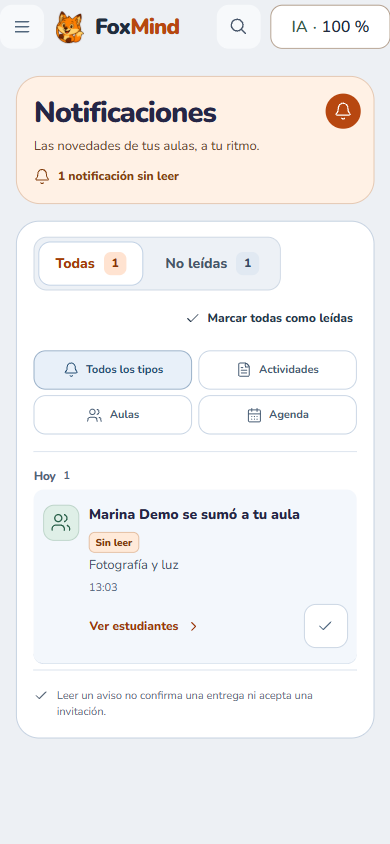
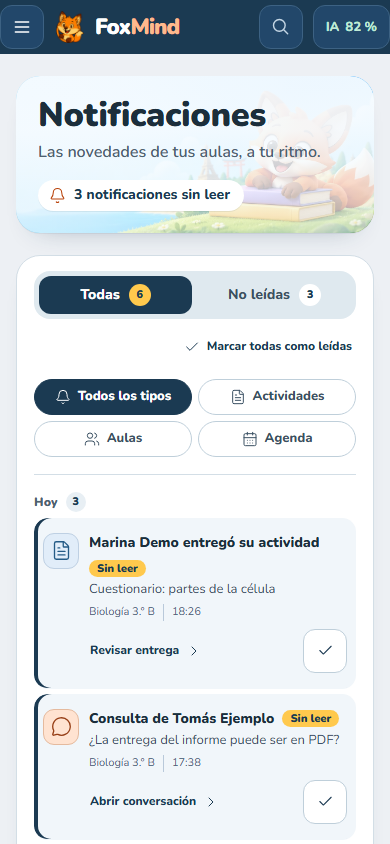
docs: document Expedición notifications and profile with captures and board
Eight notification and profile captures renewed and a new settings capture
(49 catalog entries with matching sha256), the design guide, gallery and
flows matrix updated, plus the work log and the TTP board with its three
tasks closed.

diff --git a/odd/tasks/expedition-notifications-profile.md b/odd/tasks/expedition-notifications-profile.md
@@ -1,0 +1,60 @@
+# Feature: Notificaciones y Perfil en dirección Expedición
+
+- **Spec:** #especificacion
+- **Design:** #diseno
+- **Approval:** approved
+- **Evidence mode:** candidate-v1
+- **Trace mode:** requirements-v1
+
+El 2026-11-25 el usuario pidió seguir con un PR más y eligió «Notificaciones y Perfil» como próxima migración Expedición, apilada sobre el PR de Agenda. La autorización cubre la migración visual sin cambios de comportamiento. Commit, push y PR los autorizó después (ver Seguimiento Git). No hay autorización de merge ni de despliegue.
+
+## Especificacion
+
+- **REQ-001:** Notificaciones adopta Expedición: banner con ilustración, estado de lectura como pestañas segmentadas en lago, filtros de tipo como chips con el elegido en lago, avisos sin leer marcados en lago con su etiqueta en sol y bandeja vacía con el zorro.
+- **REQ-002:** Mi perfil y Configuración adoptan Expedición: encabezado, tarjeta de vista previa en cielo y lago, campos y acciones del lenguaje del piloto, y tarjeta de cuenta con la escena de seguridad.
+- **REQ-003:** No cambia el comportamiento: datos, filtros, marcado de lectura, foco, validación del perfil, avatar y cierre de sesión siguen igual.
+
+## Diseno
+
+Mismos tokens y tipografía que el piloto (`--xp-*`, Nunito). Las hojas se anclan con `#foxmind-product#foxmind-product.fm3d-theme`, más la clase de cada pantalla cuando haga falta superar las hojas Brújula. Las ilustraciones ya están en el repositorio: `foxmind-3d/hero/welcome-sky`, `foxmind-3d/states/empty` y `foxmind-3d/scenes/security`.
+
+## Seguimiento Git
+
+Rama `claude/notifications-profile-expedition`, creada desde `d732d935` (punta de `claude/agenda-expedition`, PR 20). El 2026-11-25 el usuario autorizó commitear y abrir el PR («Sí, abrí el PR»), apilado sobre el PR 20. No hay autorización de merge ni de despliegue.
+
+## Tasks
+
+### TASK-001 — Notificaciones con el lenguaje Expedición
+- **State:** DONE
+- **Depends on:** none
+- **Owner:** orchestrator
+- **Requirements:** REQ-001, REQ-003
+- **Verification:** tests/expedition-notifications.test.mjs; navegador con bandeja llena, filtrada y vacía, ambos roles a 1440 y 390 px
+- **Scope:** ["apps/web/src/features/notifications/inbox/styles/expedition-notifications.css", "tests/expedition-notifications.test.mjs"]
+- **Acceptance:** La bandeja muestra el banner, las pestañas segmentadas, los chips de tipo, los avisos sin leer en lago y el estado vacío con el zorro, sin desborde a 1440 y 390 px. Filtrar y marcar como leído funcionan igual que antes.
+- **Evidence:** {"command":"node --test tests/expedition-notifications.test.mjs (RED sin la importaci\u00f3n, GREEN con ella); nt-check.mjs en navegador con ambos roles a 1440 y 390","result":"2/2 (0/2 sin la hoja); banner con la escena del cielo, lectura y tipo elegidos en lago, avisos sin leer marcados, \u00abNo le\u00eddas\u00bb 3 y \u00abActividades\u00bb 2 (docente) o 3 (estudiante), marcar uno baja de 3 a 2, \u00abMarcar todas\u00bb deja \u00abTodo le\u00eddo por ac\u00e1\u00bb y la bandeja vac\u00eda muestra el zorro; anillo de foco visible, sin desborde ni errores de p\u00e1gina","candidate":"sha256:817bc31249901528911d17fb962d0ae1a94fa2f526abdc171175228a6fcea1f3"}
+- **Blocker:** none
+
+### TASK-002 — Mi perfil y Configuración con el lenguaje Expedición
+- **State:** DONE
+- **Depends on:** none
+- **Owner:** orchestrator
+- **Requirements:** REQ-002, REQ-003
+- **Verification:** tests/expedition-profile.test.mjs; navegador Mi perfil, selector de avatar y Configuración, ambos roles a 1440 y 390 px
+- **Scope:** ["apps/web/src/features/identity/styles/expedition-account.css", "tests/expedition-profile.test.mjs"]
+- **Acceptance:** Mi perfil, el selector de avatar y Configuración muestran el lenguaje Expedición sin desborde a 1440 y 390 px; guardar, descartar y cerrar sesión siguen disponibles.
+- **Evidence:** {"command":"node --test tests/expedition-profile.test.mjs (RED sin la importaci\u00f3n, GREEN con ella); pf-check.mjs y capturas de Mi perfil, selector de avatar y Configuraci\u00f3n con ambos roles a 1440 y 390","result":"2/2 (0/2 sin la hoja); banner con escena de perfil o de seguridad, vista previa en cielo, campos con borde 3,25:1, avatar elegido en lago; editar habilita Guardar y Descartar, Descartar restaura y devuelve el foco, el selector ofrece 5 opciones y elegir uno marca cambios; sin desborde ni errores de p\u00e1gina","candidate":"sha256:3edd41248dac0a6fa15958d4f94c9a06d6d2ed8db861ac2c229713fc98cc45f0"}
+- **Blocker:** none
+
+### TASK-003 — Documentación, capturas y registro de suites
+- **State:** DONE
+- **Depends on:** TASK-001, TASK-002
+- **Owner:** orchestrator
+- **Requirements:** REQ-001, REQ-002
+- **Verification:** node scripts/check-documentation.mjs; sha256 del catálogo; run-complete-suite --check
+- **Scope:** ["apps/web/src/application/shell/styles/product.css", "scripts/complete-suite-inventory.json", "scripts/complete-suite-routes.json", "scripts/ci-suites.mjs", "docs/design/README.md", "docs/design/current/README.md", "docs/design/current/catalog.json", "docs/verification/flows.md", "docs/work-log/2026-11-25-expedition-notifications-profile.md"]
+- **Acceptance:** La guía de diseño, la galería y la matriz de flujos describen Notificaciones y Perfil en Expedición; el catálogo coincide en sha256 y las pruebas nuevas están clasificadas en las suites.
+- **Evidence:** {"command":"node scripts/check-documentation.mjs; verificaci\u00f3n sha256 del cat\u00e1logo; run-complete-suite --check; run-complete-suite --group fast","result":"1088 enlaces sin problemas; 49 capturas coincidentes (8 renovadas y 1 nueva de Configuraci\u00f3n); 731 pruebas clasificadas; fast 3141/3141. Repetida tras registrar la autorizaci\u00f3n de commit y PR.","candidate":"sha256:c99474bb364fa4da458d4012de39cf4a0003b71e8840c4f45b12da1e2d422848"}
+- **Blocker:** none
+- **Reopen reason:** Registro de trabajo actualizado con la autorización de commit y PR
+

diff --git a/docs/work-log/2026-11-25-expedition-notifications-profile.md b/docs/work-log/2026-11-25-expedition-notifications-profile.md
@@ -1,0 +1,62 @@
+# Notificaciones y Perfil en dirección Expedición · 25 de noviembre de 2026
+
+## Pedido y alcance
+
+- **Pedido:** «Podemos seguir con una PR más?», y como próxima pantalla «Notificaciones y Perfil».
+- **Alcance:** migración visual con el lenguaje aprobado en el piloto, Mis aulas y Agenda, sin cambios de comportamiento. Foxy y Mi estudio quedan afuera porque otro worktree trabaja sobre ellos.
+- **Rama:** `claude/notifications-profile-expedition`, apilada sobre `claude/agenda-expedition` (PR 20).
+- **Autorización:** el usuario autorizó commit, push y PR («Sí, abrí el PR»). No cubre merge ni despliegue.
+- **Tablero:** [odd/tasks/expedition-notifications-profile.md](../../odd/tasks/expedition-notifications-profile.md).
+
+## Cambios
+
+- **Hojas nuevas:**
+  - `apps/web/src/features/notifications/inbox/styles/expedition-notifications.css`, anclada con `#foxmind-product#foxmind-product.fm3d-theme .parity-notifications`, porque las reglas de la bandeja llegan a (1,3,1).
+  - `apps/web/src/features/identity/styles/expedition-account.css`, anclada con `#foxmind-product#foxmind-product.fm3d-theme .entry-profile`, porque las hojas de cuenta llegan a (0,4,0).
+  - Las dos se importan en `product.css` después de la de Agenda.
+- **Notificaciones:**
+  - Banner con la escena del cielo (`hero/welcome-sky-1600`) en lugar de la carta dibujada, con el resumen de avisos sin leer en una píldora.
+  - «Todas» y «No leídas» como pestañas segmentadas, con la elegida en lago y su contador centrado en sol.
+  - Tipos como chips, con el elegido en lago.
+  - Avisos sin leer con franja lago y etiqueta «Sin leer» en sol.
+  - Bandeja vacía con el zorro y su caja (`states/empty-320`).
+- **Mi perfil y Configuración:**
+  - Banner cálido con la escena del perfil o la del escudo, según la página.
+  - Vista previa en cielo con el avatar enmarcado en lago.
+  - Campos con el borde de 3,25:1 del acceso; los de sólo lectura llevan borde punteado.
+  - Opción de avatar elegida en lago, y la escena del escudo en la tarjeta de Configuración de cuenta.
+  - Los títulos «Contraseña» y «Sesión actual», que salían con peso fino, quedan en Nunito 900.
+- **Pruebas:** `tests/expedition-notifications.test.mjs` y `tests/expedition-profile.test.mjs`, registradas en la ruta rápida.
+- **Documentación:** guía de diseño (resumen, Notificaciones y Perfil), galería, matriz de flujos y catálogo.
+
+## Verificación
+
+- **Pruebas de guarda:** las dos fallan (0/4) al quitar la importación de las hojas y pasan (4/4) con ella.
+- **Navegador:** `next dev` del worktree contra una API sintética local, con un fixture propio de la bandeja (avisos de actividades, aulas y agenda, leídos y sin leer) y un stream mínimo del saldo de IA. Ambos roles a 1440 y 390 px.
+  - **Notificaciones:**
+    - Filtrar por «No leídas» muestra 3 avisos; por «Actividades», 2 (docente) o 3 (estudiante).
+    - Marcar un aviso baja de 3 a 2 sin leer, y «Marcar todas» deja «Todo leído por acá».
+    - La bandeja sin avisos muestra «Las próximas novedades llegan acá» con el zorro.
+    - El foco con teclado se ve en las pestañas.
+  - **Mi perfil:**
+    - Editar el nombre habilita Guardar y Descartar y actualiza la vista previa.
+    - Descartar restaura el nombre y devuelve el foco al campo.
+    - El selector ofrece 5 opciones, y elegir una marca el perfil como modificado.
+  - Sin desborde ni errores de página.
+- **Capturas:** 8 renovadas (Notificaciones y Mi perfil, ambos roles y anchos) y 1 nueva (Configuración de la docente), con sha256 verificado. El catálogo tiene 49 entradas.
+- **Comandos:**
+  - `node --test tests/expedition-notifications.test.mjs tests/expedition-profile.test.mjs`: 4/4.
+  - `run-complete-suite --check`: 731 pruebas clasificadas.
+  - `check-documentation`: 1088 enlaces sin problemas.
+  - `run-complete-suite --group fast`: 3141 aprobadas y 0 fallidas.
+
+## Fallos, omisiones y límites
+
+- **No ensayado contra la API real:** guardar el perfil, cambiar la contraseña, abrir el destino de un aviso y cerrar sesión. La API sintética sólo cubre la lectura y el marcado de la bandeja.
+- **Barra lateral:** en `/notificaciones`, el ítem Notificaciones no se marca como sección actual. Ya pasaba antes de esta migración y queda fuera de su alcance.
+- **Divergencia de documentación:** la guía dice que, en móvil, el selector de avatar pone las iniciales en una fila y los avatares en dos columnas. A 390 px se ven tres columnas. No se tocó la grilla ni la frase; queda para confirmar el comportamiento esperado.
+- **No ejecutadas:** las suites de integración con PostgreSQL y Docker.
+
+## Primer paso pendiente
+
+1. Revisar el PR apilado sobre el PR 20 y su CI. El merge espera la integración de los PR 18, 19 y 20 y la decisión del usuario.

diff --git a/docs/design/README.md b/docs/design/README.md
@@ -6,7 +6,7 @@ La [maqueta HTML interactiva](../../design/foxmind-ui-lab/01-foxmind.html) inclu
 
 ## Lenguaje visual Expedición
 
-Expedición reemplaza a Brújula en el acceso, la barra lateral privada, Inicio, Mis aulas y Agenda. Foxy, Mi estudio, Notificaciones y Perfil conservan su contenido en Brújula y comparten la barra lateral Expedición. [Tablero del piloto](../../odd/tasks/expedition-visual.md) · [Tablero de Mis aulas](../../odd/tasks/expedition-classrooms.md) · [Maquetas aprobadas](../../design/auth-home-refresh/expedicion.html) · [Maqueta de Mis aulas](../../design/mis-aulas/index.html)
+Expedición reemplaza a Brújula en el acceso, la barra lateral privada, Inicio, Mis aulas, Agenda, Notificaciones, Mi perfil y Configuración. Foxy y Mi estudio conservan su contenido en Brújula y comparten la barra lateral Expedición. [Tablero del piloto](../../odd/tasks/expedition-visual.md) · [Tablero de Mis aulas](../../odd/tasks/expedition-classrooms.md) · [Tablero de Notificaciones y Perfil](../../odd/tasks/expedition-notifications-profile.md) · [Maquetas aprobadas](../../design/auth-home-refresh/expedicion.html) · [Maqueta de Mis aulas](../../design/mis-aulas/index.html)
 
 | Decisión | Cómo aplicarla |
 |---|---|
@@ -74,13 +74,13 @@ La agenda abre con el banner de Expedición (el zorro escribiendo en su escritor
 
 ## Notificaciones
 
-El centro de ambos roles muestra los totales de la cuenta, filtros por lectura y tipo y avisos agrupados por fecha. En celular, el texto y las acciones se distribuyen en filas separadas y los controles conservan un área táctil cuadrada. La lectura se puede revertir y conserva las páginas abiertas. Si una lectura ya se guardó y falla la actualización de la bandeja, se conserva la confirmación y aparece un reintento de consulta.
+La bandeja abre con el banner de Expedición (el zorro sobre sus libros con el cielo de fondo) y el resumen de avisos sin leer en una píldora blanca. «Todas» y «No leídas» son pestañas segmentadas; la elegida va en lago con su contador en sol. Los tipos son chips y el elegido también va en lago. Cada aviso sin leer lleva una franja lago a la izquierda y la etiqueta «Sin leer» en sol. La bandeja vacía muestra al zorro con su caja. El centro de ambos roles muestra los totales de la cuenta, filtros por lectura y tipo y avisos agrupados por fecha. En celular, el texto y las acciones se distribuyen en filas separadas y los controles conservan un área táctil cuadrada. La lectura se puede revertir y conserva las páginas abiertas. Si una lectura ya se guardó y falla la actualización de la bandeja, se conserva la confirmación y aparece un reintento de consulta.
 
 Los avisos de Agenda y de invitación abren su detalle sobre la bandeja; cerrar devuelve el foco a la acción de origen o al filtro activo cuando la fila ya no se muestra. Revisar una invitación no inscribe al estudiante. El aviso de un recurso retirado presenta una explicación en rojo sin navegar al destino. [Reglas de la bandeja](../engineering/home/README.md#bandeja-unificada) · [Registro de paridad](../work-log/2026-11-16-root-notifications-exact.md)
 
 ## Perfil y configuración de cuenta
 
-El selector ofrece iniciales y cuatro avatares Foxy. Guardar cambios aplica nombres y avatar juntos. En móvil, las iniciales ocupan una fila y los avatares se distribuyen en dos columnas. Configuración contiene contraseña y cierre de sesión. [Identidad](../engineering/identity/README.md) · [Capturas](current/README.md#cuenta-y-acceso)
+Mi perfil y Configuración abren con un banner cálido: el zorro con su libro en Mi perfil y el zorro con el escudo en Configuración. La vista previa del perfil va en cielo, con el avatar enmarcado en lago. Los campos usan el mismo borde de 3:1 que el acceso, y los de sólo lectura (correo y rol) se distinguen con borde punteado. En el selector de avatar, la opción elegida va en lago. La tarjeta de Configuración de cuenta muestra la escena del escudo. El selector ofrece iniciales y cuatro avatares Foxy. Guardar cambios aplica nombres y avatar juntos. En móvil, las iniciales ocupan una fila y los avatares se distribuyen en dos columnas. Configuración contiene contraseña y cierre de sesión. [Identidad](../engineering/identity/README.md) · [Capturas](current/README.md#cuenta-y-acceso)
 
 ## Componentes y estados
 

diff --git a/docs/design/current/README.md b/docs/design/current/README.md
@@ -6,6 +6,8 @@ Capturas del 18 de noviembre de 2026 en Ego Lite sobre la aplicación compilada 
 
 **Mis aulas Expedición (24 de noviembre de 2026).** La lista, Crear aula, el interior con el Plan, Ajustes con la corrección asistida, el apunte escrito de la Biblioteca, el ingreso por código e Inicio de ambos roles se volvieron a capturar en la rama `claude/classrooms-expedition`. Se usó `next dev` contra una API sintética local que responde aulas, borradores, invitaciones, el detalle del aula, integrantes, actividades, biblioteca, muro y progreso, sin base de datos ni proveedores. El catálogo registra la fecha, el candidato, el entorno y el sha256 de cada captura.
 
+**Notificaciones y Perfil Expedición (25 de noviembre de 2026).** Notificaciones y Mi perfil de ambos roles se volvieron a capturar, y se sumó Configuración de la docente, en la rama `claude/notifications-profile-expedition`. Se usó `next dev` contra una API sintética local que responde la sesión, el saldo de IA, el perfil y una bandeja con avisos leídos y sin leer, sin base de datos ni proveedores. [Registro](../../work-log/2026-11-25-expedition-notifications-profile.md)
+
 ## Cuenta y acceso
 
 [Iniciar sesión en escritorio](vigente-acceso-publico-1440.png) · [Crear cuenta, parada del rol](vigente-registro-publico-1440.png) · [Crear cuenta, parada de datos en móvil](vigente-registro-datos-publico-390.png)
@@ -13,6 +15,7 @@ Capturas del 18 de noviembre de 2026 en Ego Lite sobre la aplicación compilada 
 | Vista | Docente | Estudiante |
 |---|---|---|
 | Mi perfil | [Escritorio](vigente-perfil-docente-1440.png) · [Móvil](vigente-perfil-docente-390.png) | [Escritorio](vigente-perfil-estudiante-1440.png) · [Móvil](vigente-perfil-estudiante-390.png) |
+| Configuración | [Escritorio](vigente-configuracion-docente-1440.png) | — |
 
 ## Inicio, búsqueda y notificaciones
 

diff --git a/docs/verification/flows.md b/docs/verification/flows.md
@@ -2,6 +2,16 @@
 
 Los resultados de esta matriz corresponden a los candidatos, fechas y entornos indicados en cada bloque. La galería del 18 de noviembre documenta su propio recorrido de la aplicación. [Galería vigente](../design/current/README.md) · [Índice de verificación](README.md).
 
+## Notificaciones y Perfil en dirección Expedición · 25 de noviembre
+
+Resultado: **PASS local UI, sin integrar ni commitear**. Candidato: rama `claude/notifications-profile-expedition`, apilada sobre el PR 20.
+
+- **Pruebas:** `expedition-notifications` y `expedition-profile` (anclaje de cada hoja, estados elegidos en lago, bandeja vacía con el zorro y borde de los campos de 3:1). Fallan sin la importación de las hojas y pasan con ella. La suite `fast` completa pasa 3141/3141.
+- **Navegador real:** `next dev` del worktree contra una API sintética, con ambos roles a 1440 y 390 px. En Notificaciones se filtró por lectura y por tipo, se marcó un aviso como leído, se marcaron todos y se vio la bandeja vacía. En Mi perfil se editó el nombre, se descartó el cambio y se eligió un avatar. Sin desborde ni errores de página.
+- **No ensayado:** guardar el perfil y cambiar la contraseña contra la API real, y las suites de integración con PostgreSQL y Docker.
+
+[Registro](../work-log/2026-11-25-expedition-notifications-profile.md) · [Tablero](../../odd/tasks/expedition-notifications-profile.md) · [Capturas](../design/current/README.md#cuenta-y-acceso)
+
 ## Agenda en dirección Expedición · 24 de noviembre
 
 Resultado: **PASS local UI, sin integrar ni commitear**. Candidato: rama `claude/agenda-expedition`, apilada sobre el PR 19.
